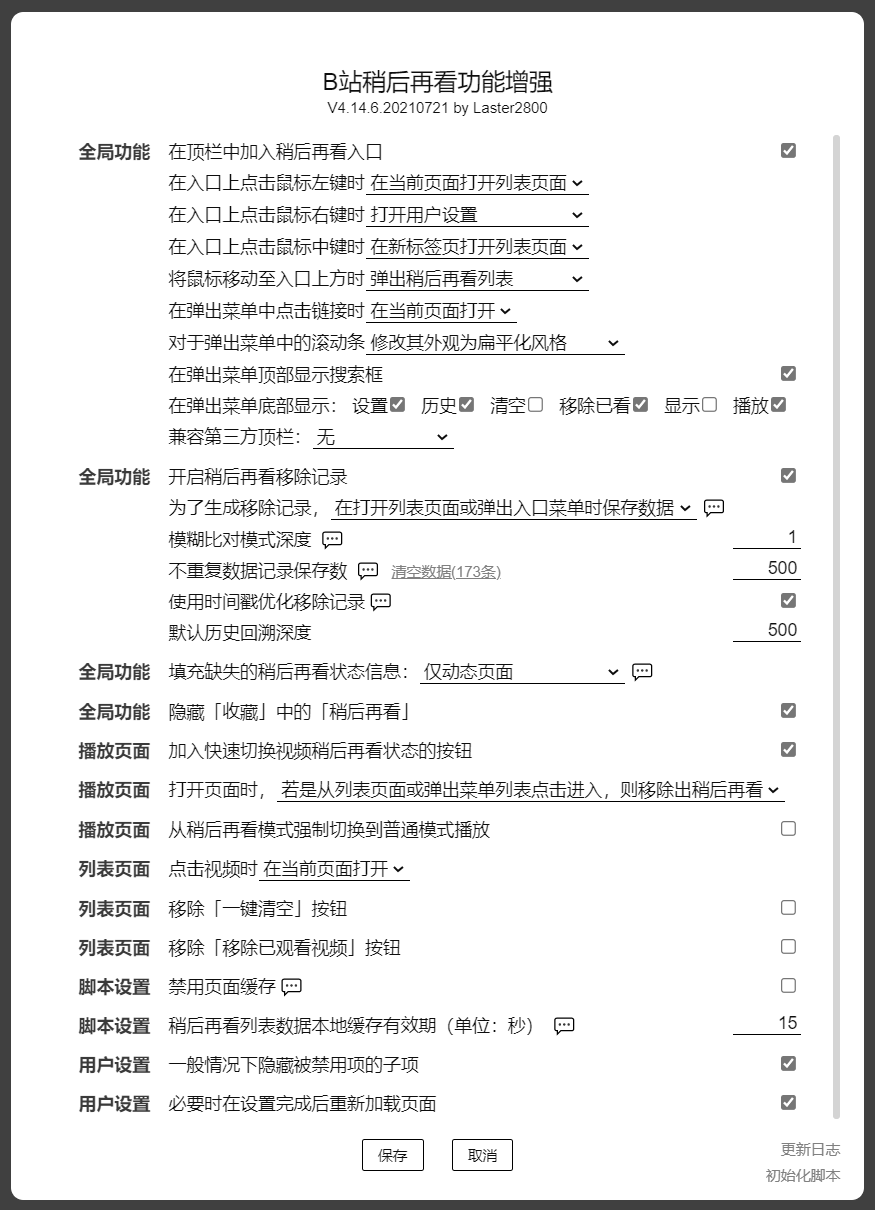
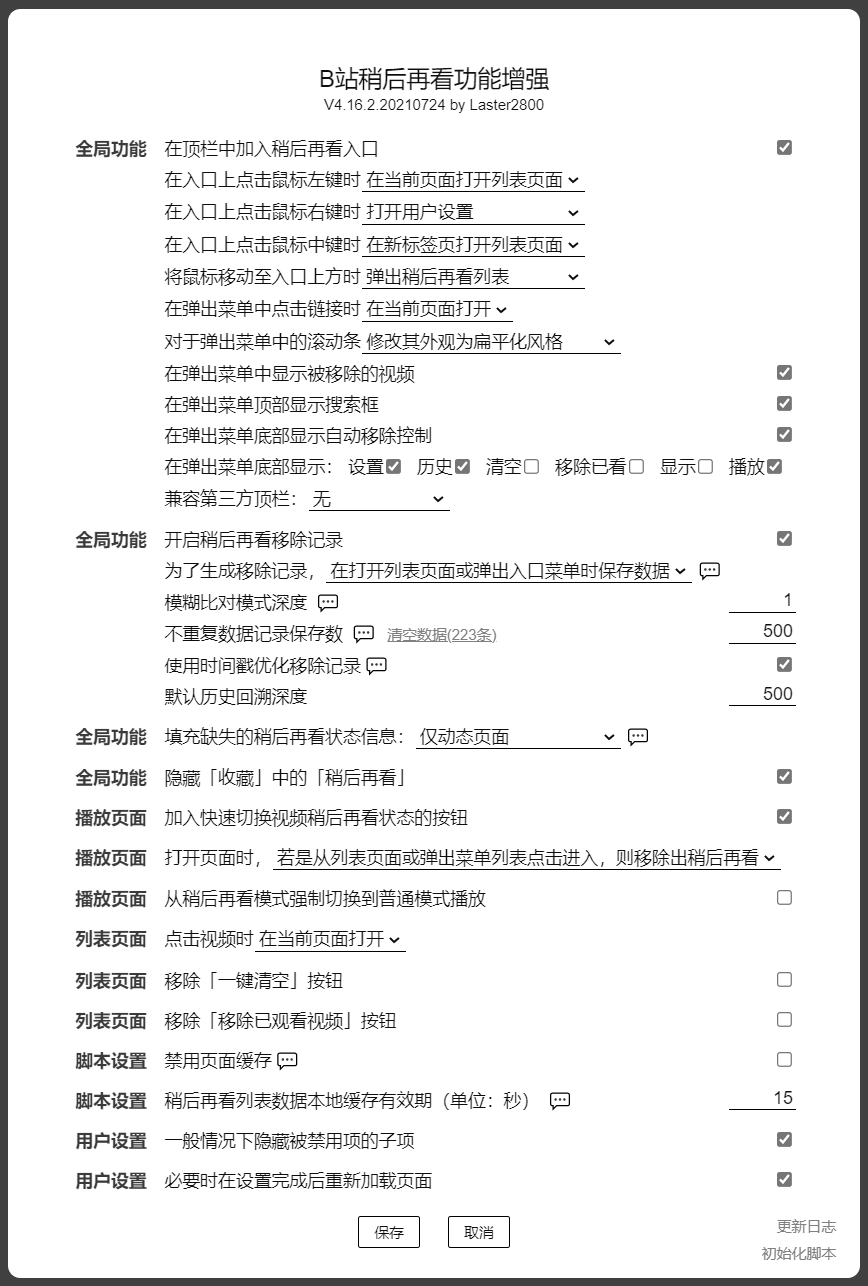
B站稍后再看功能增强 4.16.2.20210724
* 增加选项「在弹出菜单中显示被移除的视频」。
* 修复样式错误。

Changed region(s): [[0.0, 0.0, 0.9954, 1.0], [0.6843, 0.5504, 0.7465, 0.581], [0.9021, 0.0917, 0.9332, 0.1223]]

diff --git a/script/BilibiliWatchlaterPlus/BilibiliWatchlaterPlus.user.js b/script/BilibiliWatchlaterPlus/BilibiliWatchlaterPlus.user.js
@@ -1,6 +1,6 @@
 // ==UserScript==
 // @name            B站稍后再看功能增强
-// @version         4.16.1.20210723
+// @version         4.16.2.20210724
 // @namespace       laster2800
 // @author          Laster2800
 // @description     与稍后再看功能相关，一切你能想到和想不到的功能
@@ -162,8 +162,9 @@
    * @property {headerMenu} headerMenu 顶栏入口弹出菜单设置
    * @property {openHeaderMenuLink} openHeaderMenuLink 顶栏弹出菜单链接点击行为
    * @property {menuScrollbarSetting} menuScrollbarSetting 弹出菜单的滚动条设置
+   * @property {boolean} headerMenuKeepRemoved 弹出菜单保留被移除视频
    * @property {boolean} headerMenuSearch 弹出菜单搜索框
-   * @property {boolean} headerMenuAutoRemoveControl 在弹出菜单底部显示自动移除控制
+   * @property {boolean} headerMenuAutoRemoveControl 弹出菜单自动移除控制
    * @property {boolean} headerMenuFnSetting 弹出菜单：设置
    * @property {boolean} headerMenuFnHistory 弹出菜单：历史
    * @property {boolean} headerMenuFnRemoveAll 弹出菜单：清空
@@ -309,7 +310,7 @@
   const gm = {
     id: gmId,
     configVersion: GM_getValue('configVersion'),
-    configUpdate: 20210723,
+    configUpdate: 20210724,
     searchParams: new URL(location.href).searchParams,
     config: {},
     configMap: {
@@ -320,6 +321,7 @@
       headerMenu: { default: Enums.headerMenu.enable, attr: 'value', manual: true, configVersion: 20210706 },
       openHeaderMenuLink: { default: Enums.openHeaderMenuLink.openInCurrent, attr: 'value', configVersion: 20200717 },
       menuScrollbarSetting: { default: Enums.menuScrollbarSetting.beautify, attr: 'value', configVersion: 20200722 },
+      headerMenuKeepRemoved: { default: true, attr: 'checked', needNotReload: true, configVersion: 20210724 },
       headerMenuSearch: { default: true, attr: 'checked', configVersion: 20210323.1 },
       headerMenuAutoRemoveControl: { default: true, attr: 'checked', configVersion: 20210723 },
       headerMenuFnSetting: { default: true, attr: 'checked', configVersion: 20210322 },
@@ -645,7 +647,7 @@
           }
 
           // 功能性更新后更新此处配置版本
-          if (gm.configVersion < 20210723) {
+          if (gm.configVersion < 20210724) {
             _self.openUserSetting(2)
           } else {
             gm.configVersion = gm.configUpdate
@@ -736,7 +738,7 @@
               <div class="gm-items">
                 <table>
                   <tr class="gm-item" title="在顶栏「动态」和「收藏」之间加入稍后再看入口，鼠标移至上方时弹出列表菜单，支持点击功能设置。">
-                    <td rowspan="11"><div>全局功能</div></td>
+                    <td rowspan="12"><div>全局功能</div></td>
                     <td>
                       <label>
                         <span>在顶栏中加入稍后再看入口</span>
@@ -801,6 +803,14 @@
                           <option value="${Enums.menuScrollbarSetting.original}">维持官方的滚动条样式</option>
                         </select>
                       </div>
+                    </td>
+                  </tr>
+                  <tr class="gm-subitem" title="在弹出菜单中显示自页面打开以来，从弹出菜单移除的视频。">
+                    <td>
+                      <label>
+                        <span>在弹出菜单中显示被移除的视频</span>
+                        <input id="gm-headerMenuKeepRemoved" type="checkbox">
+                      </label>
                     </td>
                   </tr>
                   <tr class="gm-subitem" title="在弹出菜单顶部显示搜索框。">
@@ -1216,7 +1226,7 @@
           }
           el.headerMenuFn = el.headerMenuFnSetting.parentNode.parentNode
           el.headerButton.init = function() {
-            subitemChange(this, [el.headerButtonOpL, el.headerButtonOpR, el.headerButtonOpM, el.headerMenu, el.openHeaderMenuLink, el.menuScrollbarSetting, el.headerMenuSearch, el.headerMenuAutoRemoveControl, el.headerMenuFnSetting, el.headerMenuFnHistory, el.headerMenuFnRemoveAll, el.headerMenuFnRemoveWatched, el.headerMenuFnShowAll, el.headerMenuFnPlayAll, el.headerCompatible])
+            subitemChange(this, [el.headerButtonOpL, el.headerButtonOpR, el.headerButtonOpM, el.headerMenu, el.openHeaderMenuLink, el.menuScrollbarSetting, el.headerMenuKeepRemoved, el.headerMenuSearch, el.headerMenuAutoRemoveControl, el.headerMenuFnSetting, el.headerMenuFnHistory, el.headerMenuFnRemoveAll, el.headerMenuFnRemoveWatched, el.headerMenuFnShowAll, el.headerMenuFnPlayAll, el.headerCompatible])
             if (this.checked) {
               el.headerMenuFn.removeAttribute('disabled')
             } else {
@@ -2591,20 +2601,22 @@
             gm.menu.entryPopup.openedHandler = () => {
               gm.config.headerMenuSearch && el.search.focus()
               if (el.search.value.length > 0) {
-                el.search.oninput()
+                el.search.dispatchEvent(new Event('input'))
               }
               el.entryList.scrollTop = 0
               el.entryRemovedList.scrollTop = 0
             }
 
             if (gm.config.headerMenuSearch) {
-              el.search.oninput = function() {
+              el.search.addEventListener('input', function() {
                 if (/^\s+/.test(this.value)) {
                   this.value = this.value.replace(/^\s+/, '')
                 }
+              })
+              el.search.addEventListener('input', api.tool.throttle(function() {
                 let val = this.value.trim()
                 const match = str => str && val?.test(str)
-                const lists = [el.entryList, el.entryRemovedList]
+                const lists = gm.config.headerMenuKeepRemoved ? [el.entryList, el.entryRemovedList] : [el.entryList]
                 if (val.length > 0) {
                   el.searchClear.style.visibility = 'visible'
                   try {
@@ -2656,10 +2668,10 @@
                 } else {
                   el.entryListEmpty.style.display = 'unset'
                 }
-              }
+              }, 250))
               el.searchClear.onclick = function() {
                 el.search.value = ''
-                el.search.oninput()
+                el.search.dispatchEvent(new Event('input'))
               }
             } else {
               el.entryHeader.style.display = 'none'
@@ -2739,9 +2751,10 @@
            * @async
            */
           const onOpen = async () => {
-            const rmCards = gm.el.entryPopup.querySelectorAll('.gm-removed')
+            // 上半区被移除卡片先于下半区被查询到，恰巧使得后移除视频最后生成在被移除列表前方，无须额外排序
+            const rmCards = gm.config.headerMenuKeepRemoved ? gm.el.entryPopup.querySelectorAll('.gm-removed') : null
             let rmBvid = null
-            if (rmCards.length > 0) {
+            if (rmCards?.length > 0) {
               rmBvid = new Set()
               for (const rmCard of rmCards) {
                 rmBvid.add(rmCard.bvid)
@@ -2906,7 +2919,7 @@
             }
 
             // 添加已移除视频
-            if (rmCards.length > 0) {
+            if (rmCards?.length > 0) {
               const addedBvid = new Set()
               for (const rmCard of rmCards) {
                 const bvid = rmCard.bvid
@@ -3864,7 +3877,7 @@
         #${gm.id} .gm-entrypopup .gm-entry-bottom .gm-entry-button[fn=autoRemoveControl]:not([disabled]):hover {
           color: var(--text-color);
         }
-        #${gm.id} .gm-entrypopup .gm-entry-bottom .gm-entry-button.gm-popup-auto-remove[fn=autoRemoveControl] {
+        #${gm.id} .gm-entrypopup .gm-entry-bottom .gm-entry-button.gm-popup-auto-remove[fn=autoRemoveControl]:not([disabled]) {
           color: var(--hightlight-color);
         }
 

diff --git a/script/BilibiliWatchlaterPlus/changelog.md b/script/BilibiliWatchlaterPlus/changelog.md
@@ -8,7 +8,7 @@
 2. 自动移除：列表页面中，现在被自动移除的视频不会从页面上消失，而是改为以去色加删除线形式来表示。
 3. 自动移除：优化列表页面中的自动移除处理。
 4. 弹出菜单：优化无列表数据及无搜索结果时的显示。
-5. 弹出菜单：搜索条件会被保留，下次打开时自动应用，直至页面刷新为止。
+5. 弹出菜单：增加选项「在弹出菜单中显示被移除的视频」。开启后搜索条件会被保留，下次打开时自动应用，直至页面刷新为止。
 6. 脚本：列表页面上方的视频数统计，现在会在相关操作结束后更新。
 7. UI：元素内容及布局优化。
 
@@ -51,7 +51,7 @@
 
 ## V4.12
 
-1. 功能实现：使用时间戳优化移除记录。<br>在历史数据记录中添加时间戳，用于改善移除记录中的数据排序，使得排序以「视频『最后一次』被观察到处于稍后再看的时间点」为基准，而非以「视频『第一次』被观察到处于稍后再看的时间点」为基准；同时也利于数据展示与查看。
+1. 移除记录：增加选项「使用时间戳优化移除记录」。<br>在历史数据记录中添加时间戳，用于改善移除记录中的数据排序，使得排序以「视频『最后一次』被观察到处于稍后再看的时间点」为基准，而非以「视频『第一次』被观察到处于稍后再看的时间点」为基准；同时也利于数据展示与查看。
 2. 移除记录：稍后再看历史数据改用数组存储，数据尺寸降低 `15%`~`25%`。
 3. 移除记录：「历史回溯深度」不再绑定「稍后再看历史数据记录保存数」，并改用更为合理的默认值。
 4. 移除记录：总是获取最新的稍后再看列表数据用于生成移除记录。
